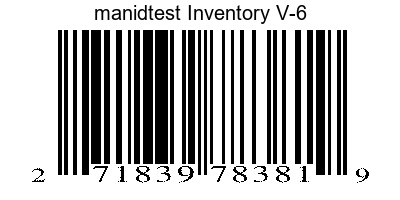
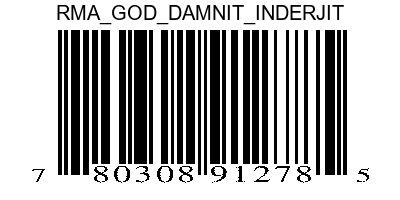
Added ability to remove RMAs/builds from user view if they're done using them. Added a character replacement command for adding new kits/builds/rmas because inderjit doesn't seem capable of using a goddamn underscore.

Changed region(s): [[0.12, 0.0, 0.87, 0.93], [0.87, 0.84, 0.93, 0.9], [0.09, 0.84, 0.12, 0.93]]

diff --git a/Database - Python/Database_GUI.py b/Database - Python/Database_GUI.py
@@ -525,7 +525,6 @@ def adjustItemGUI(barcode_for_adjustment, location):
     shelfLabel = tk.Label(adjustItemWindow, text = 'Shelf: ', font=('calibre', 12))
     shelfLocationLabel = tk.Label(adjustItemWindow, text = 'Shelf Location: ', font=('calibre', 12))
     
-    # TODO change this to allow changing kits from adjustItemGUI?
     if(invRecords[0][8] == '0'):
         kitName = 'No Kit/RMA/Build'
     else:
@@ -661,9 +660,14 @@ def viewBuilds(location, callLocation):
     def populateBuildListBox():
         buildListBox.delete(0, tk.END)
         buildsList = []
-        sql = '''SELECT name FROM ''' + DG.kitDatabase + ''' UNION
-                SELECT name FROM ''' + DG.rmaDatabase + ''' UNION
-                SELECT name FROM ''' + DG.buildDatabase + ''';'''
+        if(callLocation != 'Admin'):
+            sql = '''SELECT name FROM ''' + DG.kitDatabase + ''' UNION
+                    SELECT name FROM ''' + DG.rmaDatabase + ''' WHERE userview = 1 UNION
+                    SELECT name FROM ''' + DG.buildDatabase + ''' WHERE userview = 1;'''
+        else:
+            sql = '''SELECT name FROM ''' + DG.kitDatabase + ''' UNION
+                    SELECT name FROM ''' + DG.rmaDatabase + ''' UNION
+                    SELECT name FROM ''' + DG.buildDatabase + ''';'''
         cur.execute(sql)
         buildNameRecords = cur.fetchall()
         if(buildNameRecords):
@@ -678,7 +682,7 @@ def viewBuilds(location, callLocation):
         try:
             tableNameEditBuild = buildListBox.get(buildListBox.curselection())
         except:
-            print(buildNameLabel.cget("text"))
+            #print(buildNameLabel.cget("text"))
             tableNameEditBuild = buildNameLabel.cget("text")
         if(tableNameEditBuild[:4] == 'rma_'):
             database = DG.rmaDatabase
@@ -820,14 +824,41 @@ def viewBuilds(location, callLocation):
         noButton.place(relx=.35, rely=.7, anchor='center')
         
         return
-
-    
     
     def newBuildHelper():
         subWindowLoc = childWindowLocation(viewBuildsWindow)
         bar = DG.createBarcode()
         createNewBuild(bar, subWindowLoc)
         return
+    
+    
+    
+    
+    
+    def completeBuild():
+        currentBuild = buildNameLabel.cget("text")
+        doubleCheck = tk.messagebox.askquestion("Caution", 'Build/RMA will be removed and only accessible from Admin screen\nAre you sure you want to continue?', parent = viewBuildsWindow)
+        if(doubleCheck == 'yes'):
+            print('User clicked yes')
+            if(currentBuild[:3] == 'rma'):
+                database = DG.rmaDatabase
+            elif(currentBuild[:5] == 'build'):
+                database = DG.buildDatabase
+            else:
+                tk.messagebox.showerror("Error", "Couldn't get build type")
+                return
+            sql = '''UPDATE ''' + database + ''' SET userview = 0 WHERE name = ''' + currentBuild + ''';'''
+            cur.execute(sql)
+            location = childWindowLocation(viewBuildsWindow)
+            viewBuildsWindow.destroy()
+            viewBuilds(location, None)
+        else:
+            print("User clicked no")
+        return
+    
+    
+    
+    
     
     def buildSelection(event):
         try:
@@ -842,6 +873,18 @@ def viewBuilds(location, callLocation):
         def fillBuildTree(rec):
             buildTree.insert("", 'end', values=(rec[0], rec[4], rec[5], rec[8])) 
             return
+        
+        def getBuildType(currentBuild):
+            if(currentBuild[:3] == 'kit'):
+                buildType = 'Kit'
+            elif(currentBuild[:3] == 'rma'):
+                buildType = 'RMA'
+            elif(currentBuild[:5] == 'build'):
+                buildType = 'Build'
+            else:
+                buildType = None
+            return buildType
+        
         def printHelper():
             tableName = buildNameLabel.cget("text")
             if(tableName[:4] == "rma_"):
@@ -870,13 +913,15 @@ def viewBuilds(location, callLocation):
             adjustBuildGUI = tk.Tk()
             adjustBuildGUI.geometry("300x200+" + subWindowLoc)
         
-            if(currentBuild[:3] == 'kit'):
-                buildType = 'Kit'
-            elif(currentBuild[:3] == 'rma'):
-                buildType = 'RMA'
-            elif(currentBuild[:5] == 'build'):
-                buildType = 'Build'
-            else:
+            # if(currentBuild[:3] == 'kit'):
+            #     buildType = 'Kit'
+            # elif(currentBuild[:3] == 'rma'):
+            #     buildType = 'RMA'
+            # elif(currentBuild[:5] == 'build'):
+            #     buildType = 'Build'
+            # else:
+            buildType = getBuildType(currentBuild)
+            if(buildType == None):
                 tk.messagebox.showerror("Error", "Couldn't get build type", parent = adjustBuildGUI)
                 adjustBuildGUI.destroy()
                 return
@@ -941,7 +986,7 @@ def viewBuilds(location, callLocation):
         buildNameLabel.place(relx=.65, rely=.06, anchor='center')
         buildListBox.place(relx=.075, rely=.5, anchor='w')
         buildScrollbar.place(relx=.283, rely=.5, anchor='w')
-        newBuildButton.place(relx=.267, rely=.78, anchor='w')
+        newBuildButton.place(relx=.19, rely=.78, anchor='w')
         editBuildButton.place(relx=.38, rely=.92, anchor='center')
         printCodeButton.place(relx=.8, rely = .92, anchor='center')
         homeButton.place(relx = .925, rely=.92, anchor = 'center')
@@ -951,7 +996,13 @@ def viewBuilds(location, callLocation):
             refreshButton.place(relx=.188, rely=.85, anchor='center')
         else:
             refreshButton.place(relx=.075, rely=.78, anchor='center')
-            
+        
+        finishBuildButton.place_forget()
+        buildType = getBuildType(tableName)
+        if(buildType == 'Build' or buildType == 'RMA'):
+            finishBuildButton.place(relx=.655, rely=.92, anchor='center')
+        
+        
         buildTree.place(relx=.65, rely=.475, anchor = 'center')
         buildTreeScrollbar.place(relx=.945, rely=.475, anchor = 'center')
         
@@ -970,9 +1021,10 @@ def viewBuilds(location, callLocation):
     buildListBox.config(yscrollcommand=buildScrollbar.set)
     buildNameLabel = tk.Label(viewBuildsWindow, text = '', font=('calibre', 12, 'bold'))
     deleteBuildButton = tk.Button(viewBuildsWindow, text='Delete Kit', command=deleteBuildCheck)
+    finishBuildButton = tk.Button(viewBuildsWindow, text='Complete Build', command=completeBuild)
     editBuildButton = tk.Button(viewBuildsWindow, text='Add Items', command= lambda: [editBuild()])
     refreshButton = tk.Button(viewBuildsWindow, text='Refresh List', command=populateBuildListBox)
-    newBuildButton = tk.Button(viewBuildsWindow, text = 'New Kit', command=newBuildHelper)
+    newBuildButton = tk.Button(viewBuildsWindow, text = 'New Kit/Build/RMA', command=newBuildHelper)
     homeButton = tk.Button(viewBuildsWindow, text = "Home", command=returnHelper)
     
     buildTree = ttk.Treeview(viewBuildsWindow, selectmode = 'browse')
@@ -995,7 +1047,7 @@ def viewBuilds(location, callLocation):
     searchEntry.place(relx=.35, rely=.2, anchor='w')
     buildListBox.place(relx=.2, rely=.5, anchor='w')
     buildScrollbar.place(relx=.753, rely=.5, anchor='w')
-    newBuildButton.place(relx=.8, rely=.78, anchor='center')
+    newBuildButton.place(relx=.697, rely=.78, anchor='center')
     homeButton.place(relx=.8, rely=.92, anchor = 'w')
     
     if(callLocation == 'Admin'):
@@ -1165,7 +1217,8 @@ def createNewBuild(bar, location):
     
     def createBuild():
         if(buildEntry.get()):
-            buildName = buildEntry.get()
+            buildName = str(buildEntry.get())
+            buildName = buildName.replace("-", "_")
         else:
             tk.messagebox.showerror("Error", "Please enter a build label")
             return
@@ -1188,14 +1241,14 @@ def createNewBuild(bar, location):
             tk.messagebox.showerror("Error", "Build already exists in database", parent = newBuildWindow)
         else:
             if(tableVar == 'Kit_'):
-                sql = '''INSERT INTO ''' + DG.kitDatabase + ''' (name, barcode) VALUES (%s, %s);'''
-                cur.execute(sql, [tableName.lower(), bar])
+                sql = '''INSERT INTO ''' + DG.kitDatabase + ''' (name, barcode, userview) VALUES (%s, %s, %s);'''
+                cur.execute(sql, [tableName.lower(), bar, 1])
             elif(tableVar == 'RMA_'):
-                sql = '''INSERT INTO ''' + DG.rmaDatabase + ''' (name, barcode) VALUES (%s, %s);'''
-                cur.execute(sql, [tableName.lower(), bar])
+                sql = '''INSERT INTO ''' + DG.rmaDatabase + ''' (name, barcode, userview) VALUES (%s, %s, %s);'''
+                cur.execute(sql, [tableName.lower(), bar, 1])
             elif(tableVar == 'Build_'):
-                sql = '''INSERT INTO ''' + DG.buildDatabase + ''' (name, barcode) VALUES (%s, %s);'''
-                cur.execute(sql, [tableName.lower(), bar])
+                sql = '''INSERT INTO ''' + DG.buildDatabase + ''' (name, barcode, userview) VALUES (%s, %s, %s);'''
+                cur.execute(sql, [tableName.lower(), bar, 1])
                 
             sql = '''INSERT INTO ''' + DG.barDatabase + '''(code) VALUES (%s);'''
             cur.execute(sql, [bar])
@@ -1862,6 +1915,10 @@ def Admin(location):
     adminMenuWindow.geometry("600x400+" + location)
     adminMenuWindow.focus_force()
     
+    
+    # TODO
+    # Double check that all of this is calling the typical build menu and then remove if unecessary 
+    
     #Function definitions for Admin Menu Items
     # def adminBuildMenu():
     #     cur = DG.conn.cursor()
@@ -1885,7 +1942,7 @@ def Admin(location):
     #             buildTree.insert("", 'end', values=(rec[0], rec[4], rec[5], rec[8])) 
     #             return
             
-    #         #TODO copy code from DELETE BUILD in main user menu
+    #         #copy code from DELETE BUILD in main user menu
     #         def deleteBuild():
     #             print('Delete Build ' + buildName)
     #             return
@@ -1952,12 +2009,6 @@ def Admin(location):
         viewBuilds(subWindowLoc, 'Admin')
         return
     
-    def adminMenu(location):
-        
-        
-        
-        return
-    
     def createBOMGUI():
         bomWindow = tk.Tk()
         bomWindow.geometry("600x200")
@@ -1965,7 +2016,8 @@ def Admin(location):
         cur = DG.conn.cursor()
         
         def createBOMID():
-            bomID = random.randrange(0, 10000)
+            #Smallint can hold 32767, I'm assuming this is all we will need for the forseeable future
+            bomID = random.randrange(0, 32750)
             sql = '''SELECT * FROM ''' + DG.bomDatabase + ''' WHERE bom_id = %s'''
             cur.execute(sql, [bomID])
             records = cur.fetchall()
@@ -2164,11 +2216,9 @@ def Admin(location):
                 tk.messagebox.showerror('Error', errorMessage)
             
         def returnHelper():
-            subWindow_x = str(bomWindow.winfo_x() + 100)
-            subWindow_y = str(bomWindow.winfo_y() + 50)
-            subWindowLoc = subWindow_x + "+" + subWindow_y
+            subWindowLoc = childWindowLocation(bomWindow)
             bomWindow.destroy()
-            adminMenu(subWindowLoc)
+            Admin(subWindowLoc)
             return
             
         nameLabel = tk.Label(bomWindow, text = "Select item to create/edit BOM")
@@ -2176,7 +2226,7 @@ def Admin(location):
         bomEntryLabel = tk.Label(bomWindow, text = "Type Manufacturer Numbers for \nBOM inventory check")
         nameList = []
         itemName = tk.StringVar()
-        sql = '''SELECT Description FROM ''' + DG.invDatabase + ''' ORDER BY Description'''
+        sql = '''SELECT DISTINCT manufacturerid FROM ''' + DG.invDatabase + ''' ORDER BY manufacturerid'''
         cur.execute(sql)
         records = cur.fetchall()
         for record in records:
@@ -2318,11 +2368,9 @@ def Admin(location):
             return
 
         def returnHelper():
-            subWindow_x = str(removeItemWindow.winfo_x() + 100)
-            subWindow_y = str(removeItemWindow.winfo_y() + 50)
-            subWindowLoc = subWindow_x + "+" + subWindow_y
+            subWindowLoc = childWindowLocation(removeItemWindow)
             removeItemWindow.destroy() 
-            adminMenu(subWindowLoc)
+            Admin(subWindowLoc)
             return
 
         removeVar.trace_add('write', removeCheckHelper)

diff --git a/Database - Python/Print_Label.py b/Database - Python/Print_Label.py
@@ -185,7 +185,7 @@ def main():
 
     if(arguments()):
         args = arguments()
-        for i in range(12):
+        for i in range(1):
             for i in args:
                 if(i.strip(',').isalpha()):
                     base = "C:\\Users\\Luke\\Desktop\\Letters"
